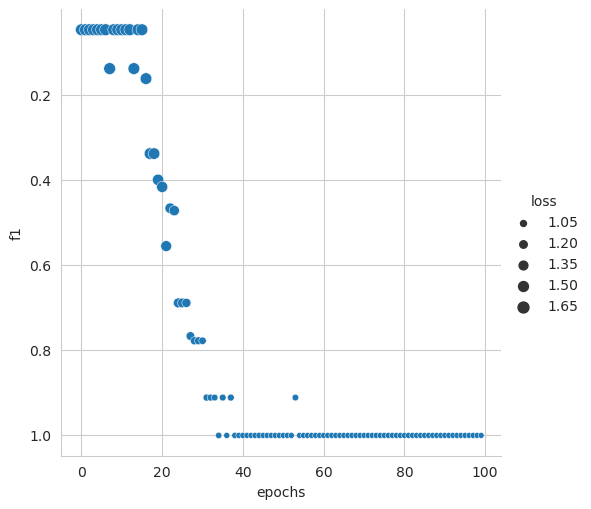
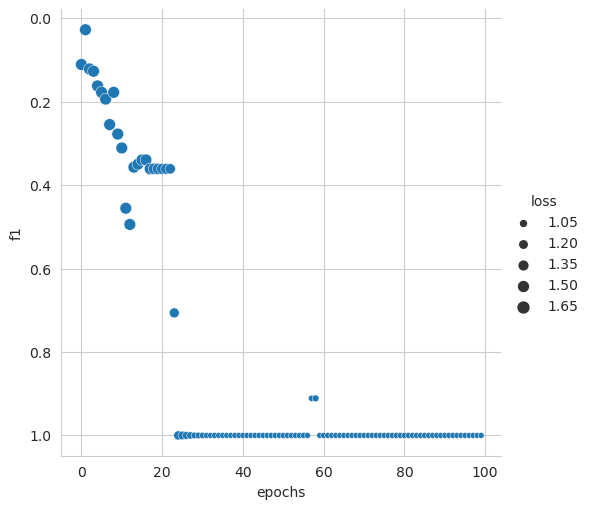
Now output is taken from last output rather than last Hidden

diff --git a/README.md b/README.md
@@ -2,6 +2,12 @@
 This repository uses **stacked-LSTM** architecture using **two** layers to 
 train on the given data.
 
+#Updates
+
+- May 28, 2021 ---> Adjusted shapes to enable `bidirectional` LSTM 
+- May 28, 2021 ---> LSTM's last output state is used instead of last hidden state, thus using the `pad_packed_sequences`
+- May 27, 2021 ---> LSTM's last hidden state is used without `pad_packed_sequence` 
+
 
 > Images after the training are saved inside `images` folder.
 
@@ -11,17 +17,18 @@ train on the given data.
 # Hyper Parameters
 | Parameters | Values |
 | :---------- | -------:|
-batch | 12
-classes| 6
-dropout | 0.5
-embed_dim | 128
-epochs | 1500
-hidden_1 | 1024
-lstm_hidden | 8
-max_norm | 1.0
-num_directions | 1
-num_layers | 2
-vocab | 16
+batch          | 12
+classes        | 6
+dataset        | `dataset/commands2code.csv`
+dropout        | 0.5
+embed_dim      | 128
+epochs         | 100
+hidden_1       | 1024
+lstm_hidden    | 16
+max_norm       | 1.0
+num_directions |  2
+num_layers     |  2
+vocab          | 16
 
 # Installaion
 >`pip install -r requirements.txt`
